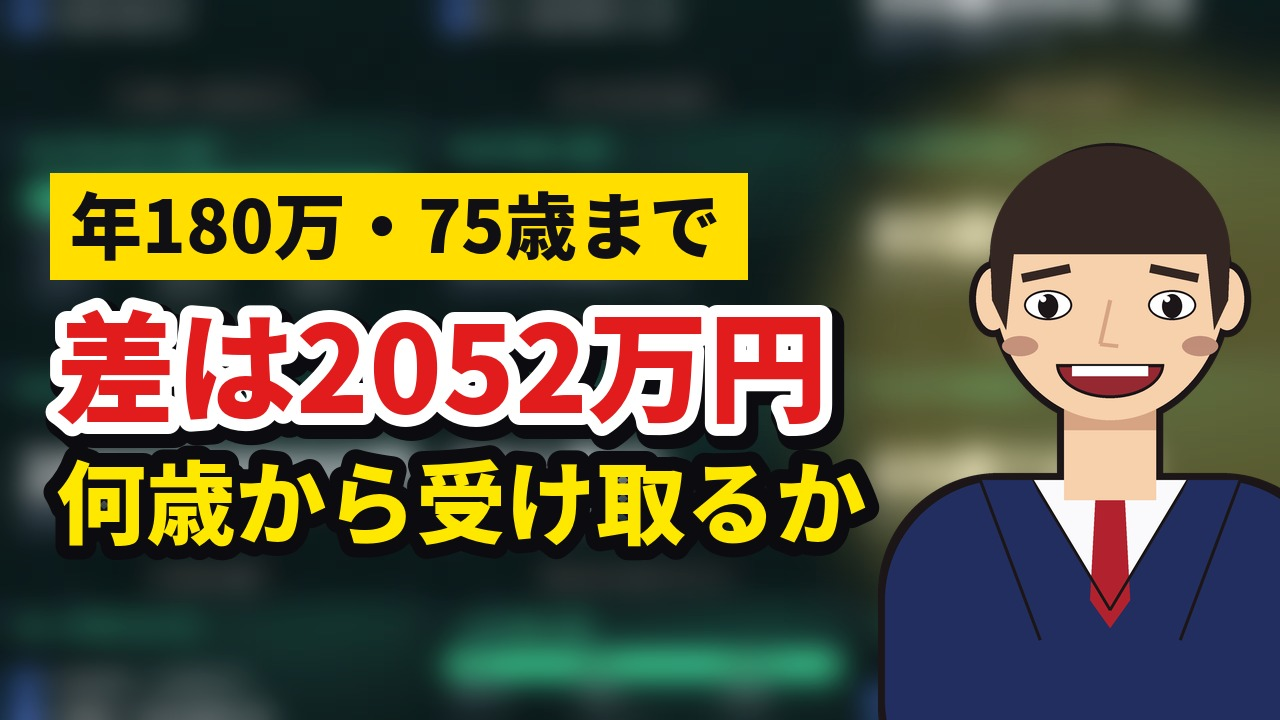
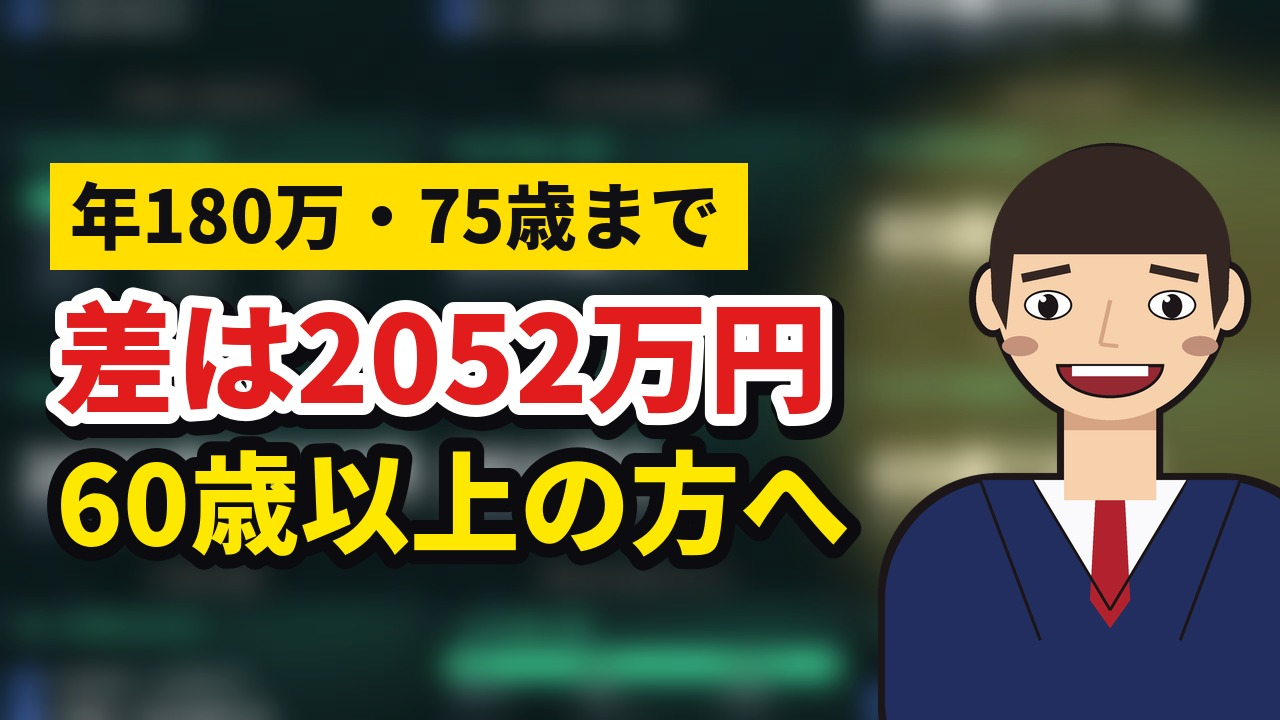
improve: 09/05 09:00 の枠の本 GFvAcxvDmYM のサムネ2行目を、帯の実測でいちばん強い脚（相手の名指し ×54〜68）に差し替えた ＋ その差し替えの道が存在していなかったので作った
## 何を変えたか（規則3 —— 次の枠で出る1本）

    前: 年180万・75歳まで / 差は2052万円 / **何歳から受け取るか**
    後: 年180万・75歳まで / 差は2052万円 / **60歳以上の方へ**

前提（年180万・75歳まで）と金額（2052万円）はそのまま。落としたのは
**2行目の疑問形**で、そこへ帯の実測でいちばん強い脚を入れた。
`thumbnails.set` 50単位・**焼き直し無し**（齢は 0 に戻らない）。
`pick_legs('GFvAcxvDmYM')` は前後とも `([],None)`（外の型の脚 4/4 ○）、
`outside_title_problems` も `[]`。実物を `videos.list` で確認（1単位）——
題・`publishAt 2026-09-05T00:00:00Z`（＝ 09:00 JST）とも変わっていない。

## なぜ2行目だったか（この回に撃った数・`data/niche_corpus.jsonl` 長尺 n=365）

齢で割った 回/日 の中央値、層ごと:

    相手の名指し  全体     有 n=34 2,246.1回/日 | 無 n=331   33.2  **×67.6**
                 【】在り  有 n=32 2,246.1      | 無 n=177   41.2  **×54.5**
    疑問形の尾    全体     有 n=141   41.2      | 無 n=224  108.8    ×0.38
                 【】在り  有 n=78    93.0      | 無 n=131  236.5    ×0.39

**相手の名指しは、層を変えても ×54〜68 で動かない**（n=32〜34）。
題には 09/04 14:04 に入ったが（405c9db4）、**サムネには入っていなかった** ——
同じ commit が「サムネ2行は触っていない（`thumbnail_line2`『何歳から受け取るか』が
脚(4d)の判断の語）」と書いている。**その脚(4d)は 8時間半後の 57bb8b84（22:42）で
帯 335本 の実測に置き換わり、判断の語は帯で 6本(1.8%) しか無いと分かって落ちている。**
＝ **サムネの疑問形を残していた理由は、もう存在しない。**

### ただし 405c9db4 の「×0.09」は、いま ×2.00 です（撃ち直した）

あの commit がいちばん深い層として挙げた `【】＋相手の名指し` の中の疑問形は、
**n=13対17 の升**でした。帯が 336本 → 365本 に増えたいま、同じ升は:

    【】＋相手  有 n=12 4,502.2回/日 | 無 n=20 2,246.1  **×2.00**（前: ×0.09）

**29本 増えただけで符号が入れ替わっています。** ＝ あの升は決め手に使えない。
**向きが残っているのは、上の n=209〜365 の層のほう**（×0.38／×0.39）なので、
題から疑問形を外した 405c9db4 の判断そのものは生きている。**この差し替えも、
深い升ではなく、いちばん厚い層で動かない脚（相手の名指し）を根拠にしている。**
次にここを読む回へ: **n が 30 前後の升の倍率を、単独の根拠にしないこと。**
[…]

Changed region(s): [[0.0312, 0.2139, 0.6875, 0.7944]]

diff --git a/scripts/refresh_thumbnail.py b/scripts/refresh_thumbnail.py
@@ -4,8 +4,12 @@
         **控えに残した bytes を、載っていない本すべてに押す**（2026-08-17 に追加）。
         `build/` は要りません。ふつうはこちらです
 
-    python scripts/refresh_thumbnail.py --missing --video <動画ID>
+    python scripts/refresh_thumbnail.py --missing --video <動画ID> [--replace]
         **その1本だけ押す**（50単位。2026-08-31 に追加）。
+        **`--replace` は「絵が既に載っている本」を差し替える**（2026-09-05 に追加）——
+        `--missing` の一覧は `thumbnail_set is False` の本しか返さないので、
+        **焼き上がって絵まで載った本（＝規則3 が良くし続けろと言う次の枠の1本）は
+        `--replace` 無しでは押せません。**
         `--missing` は実測 158本 ＝ 7,900単位 で、1日の枠のほとんどを持っていき、
         **池化（`pool_drain`）と取り合います。** いちばん急ぐのはいつも1本
         ——**次に公開される本**——なので、そこだけ押せる道を分けてあります
@@ -271,8 +275,35 @@ def _long_form_ids(video_ids: list[str]) -> set[str]:
     return out
 
 
+def stash_row(video_id: str) -> dict | None:
+    """**控えに在る絵を、`missing_thumbnail()` を通さずに1本ぶん返す**（**API 0単位**）。
+    無ければ `None`。返す形は `missing_thumbnail()` の1行と同じ。
+
+    `missing_thumbnail()` は `thumbnail_set is False` の本しか返しません
+    ——「まだ載っていない本を押す」ための一覧だからです。
+    **既に載っている本の絵を差し替える道が、そこには在りません。**
+    """
+    import critique_queue                                       # noqa: PLC0415
+    vid = str(video_id or "").strip()
+    if not vid:
+        return None
+    thumb = critique_queue.STASH / f"{vid}.thumb.jpg"
+    if not thumb.exists():
+        return None
+    meta = {}
+    meta_path = critique_queue.STASH / f"{vid}.json"
+    if meta_path.exists():
+        try:
+            meta = json.loads(meta_path.read_text(encoding="utf-8"))
+        except (OSError, ValueError):
+            meta = {}
+    return {"video_id": vid, "topic": meta.get("topic"),
+            "thumb": thumb, "stashed_at": meta.get("stashed_at")}
+
+
 def push_missing(dry_run: bool = False, force: bool = False,
-                 only_long: bool = False, only_video: str = "") -> int:
+                 only_long: bool = False, only_video: str = "",
+                 replace: bool = False) -> int:
     """控えに残した bytes を、載っていない本すべてに押す。**`build/` は要りません。**
 
     **予約に0本の日があるあいだは押しません**（2026-08-19。理由は
@@ -290,7 +321,52 @@ def push_missing(dry_run: bool = False, force: bool = False,
     import critique_queue
 
     rows = critique_queue.missing_thumbnail()
+    # **既に載っている絵を、控えの新しい絵で差し替える道**（2026-09-05 に足した）。
+    #
+    # `rebuild_stash()`（`--rebuild`）の註は「載せるのは窓が戻った回の
+    # `--missing --video <ID>`」と名指ししています。**その1行は、絵が既に
+    # 載っている本には効きません** —— `missing_thumbnail()` が返すのは
+    # `thumbnail_set is False` の本だけなので、**焼き上がって絵まで載った本
+    # （＝ まさに規則3 が「次の枠まで良くし続けろ」と言っている本）は
+    # 一覧に出ず、`--missing --video <ID>` は「控えにありません」で 1 を返します。**
+    # 実測 2026-09-05 00:5x: 09/05 09:00 に出る `GFvAcxvDmYM` の 2行目を
+    # 帯の実測（相手の名指し ×54〜68・n=32〜34）に合わせて差し替え、
+    # `--rebuild` で控えの絵を焼き直したところで、載せる道が無かった。
+    #
+    # ＝ **手順が名指ししている1行が、その相手には実行できない。**
+    # この repo でいちばん多い壊れ方（言っている所と、している所が別）です。
+    #
+    # `--replace --video <ID>` は `missing_thumbnail()` を通さず、控えの
+    # `<ID>.thumb.jpg` を1本ぶん押します。**門は1つも外しません**
+    # （`day_quota` / `reserve_hold`・`only_video` の枝をそのまま通る）。
+    # **束には渡しません** —— `--video` が要ります。
+    #
+    # **覆る条件**: `missing_thumbnail()` が「載っているが控えのほうが新しい」を
+    # 返すようになったら、この枝は要りません（そのとき `--replace` を消すこと）。
+    if replace:
+        if not only_video:
+            print("[thumb] `--replace` には `--video <動画ID>` が要ります"
+                  "（束には渡しません）")
+            return 2
+        if not any(r["video_id"] == only_video for r in rows):
+            row = stash_row(only_video)
+            if row is None:
+                print(f"[thumb] **{only_video} の絵が控えにありません**"
+                      f"（`data/critique_queue/{only_video}.thumb.jpg`）。"
+                      " 先に `--rebuild` で焼き直すこと")
+                return 1
+            print(f"[thumb] **{only_video} は既に絵が載っています** —— "
+                  "控えの新しい絵で**差し替え**ます（50単位）")
+            rows = rows + [row]
     if not rows:
+        # **`--video` を指して空だったときは、そう言うこと**（2026-09-05）。
+        # 「載っていない本はありません」と 0 を返すと、**押せたのか押していないのかが
+        # 呼んだ側から区別できません**（`--replace` を忘れた回がここに落ちます）。
+        if only_video:
+            print(f"[thumb] **{only_video} は控えにありません**"
+                  "（サムネイルは載っている／控えが在庫に無い、のどちらか）。"
+                  " **既に載っている絵を差し替えるなら `--replace` を付けること**")
+            return 1
         print("[thumb] サムネイルの載っていない本はありません")
         return 0
 
@@ -541,6 +617,7 @@ if __name__ == "__main__":
                 raise SystemExit(2)
             _only = sys.argv[_i + 1]
         raise SystemExit(push_missing(dry_run="--dry-run" in sys.argv,
+                                      replace="--replace" in sys.argv,
                                       force="--force" in sys.argv,
                                       only_long="--long" in sys.argv,
                                       only_video=_only))

diff --git a/tests/test_thumb_replace.py b/tests/test_thumb_replace.py
@@ -1,0 +1,87 @@
+"""**既に絵が載っている本の、サムネイルを差し替える道**（2026-09-05 に足した）。
+
+`rebuild_stash()` の註は「載せるのは窓が戻った回の `--missing --video <ID>`」と
+名指ししていますが、**その1行は絵が既に載っている本には効きません** ——
+`critique_queue.missing_thumbnail()` が返すのは `thumbnail_set is False` の本だけで、
+**焼き上がって絵まで載った本（＝規則3 が「次の枠まで良くし続けろ」と言う当の本）は
+一覧に出ない**からです。実測 2026-09-05 00:5x に `GFvAcxvDmYM` で踏みました。
+"""
+from __future__ import annotations
+
+import json
+import sys
+from pathlib import Path
+
+ROOT = Path(__file__).resolve().parent.parent
+sys.path.insert(0, str(ROOT / "scripts"))
+
+import refresh_thumbnail as rt  # noqa: E402
+
+
+def _stash(tmp_path, video_id, *, thumbnail_set):
+    (tmp_path / f"{video_id}.json").write_text(json.dumps(
+        {"video_id": video_id, "topic": "t", "thumbnail_set": thumbnail_set,
+         "stashed_at": "2026-09-04T21:31:26+09:00"}, ensure_ascii=False),
+        encoding="utf-8")
+    (tmp_path / f"{video_id}.thumb.jpg").write_bytes(b"jpeg-bytes")
+
+
+def test_stash_row_reads_a_video_that_already_has_a_thumbnail(tmp_path, monkeypatch):
+    import critique_queue
+    monkeypatch.setattr(critique_queue, "STASH", tmp_path)
+    _stash(tmp_path, "AAA", thumbnail_set=True)
+    # `missing_thumbnail()` からは見えない（載っているので）
+    assert [r["video_id"] for r in critique_queue.missing_thumbnail()] == []
+    # `stash_row()` からは見える
+    row = rt.stash_row("AAA")
+    assert row is not None
+    assert row["video_id"] == "AAA" and row["topic"] == "t"
+    assert row["thumb"] == tmp_path / "AAA.thumb.jpg"
+
+
+def test_stash_row_is_none_without_bytes(tmp_path, monkeypatch):
+    import critique_queue
+    monkeypatch.setattr(critique_queue, "STASH", tmp_path)
+    (tmp_path / "BBB.json").write_text('{"video_id":"BBB"}', encoding="utf-8")
+    assert rt.stash_row("BBB") is None      # 絵が無い
+    assert rt.stash_row("") is None
+    assert rt.stash_row("NOPE") is None
+
+
+def test_replace_needs_a_single_video(tmp_path, monkeypatch, capsys):
+    import critique_queue
+    monkeypatch.setattr(critique_queue, "STASH", tmp_path)
+    _stash(tmp_path, "AAA", thumbnail_set=True)
+    # 束には渡さない
+    assert rt.push_missing(dry_run=True, replace=True) == 2
+    assert "--video" in capsys.readouterr().out
+
+
+def test_replace_picks_up_the_already_set_video(tmp_path, monkeypatch, capsys):
+    import critique_queue
+    monkeypatch.setattr(critique_queue, "STASH", tmp_path)
+    _stash(tmp_path, "AAA", thumbnail_set=True)
+    # `--replace` 無しでは「控えにありません」で 1
+    assert rt.push_missing(dry_run=True, only_video="AAA") == 1
+    assert "控えにありません" in capsys.readouterr().out
+    # `--replace` を付けると 1本 拾って dry-run で止まる（API は叩かない）
+    assert rt.push_missing(dry_run=True, only_video="AAA", replace=True) == 0
+    out = capsys.readouterr().out
+    assert "差し替え" in out and "AAA" in out
+
+
+def test_replace_says_so_when_the_stash_has_no_image(tmp_path, monkeypatch, capsys):
+    import critique_queue
+    monkeypatch.setattr(critique_queue, "STASH", tmp_path)
+    assert rt.push_missing(dry_run=True, only_video="ZZZ", replace=True) == 1
+    assert "控えにありません" in capsys.readouterr().out
+
+
+def test_replace_does_not_disturb_the_missing_list(tmp_path, monkeypatch):
+    import critique_queue
+    monkeypatch.setattr(critique_queue, "STASH", tmp_path)
+    _stash(tmp_path, "AAA", thumbnail_set=False)   # まだ載っていない本
+    # 既に一覧に居る本は、`--replace` を付けても二重に入らない
+    rows = critique_queue.missing_thumbnail()
+    assert [r["video_id"] for r in rows] == ["AAA"]
+    assert rt.push_missing(dry_run=True, only_video="AAA", replace=True) == 0
